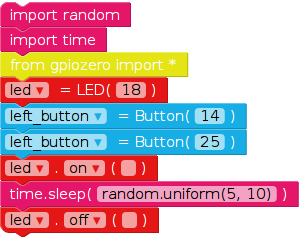
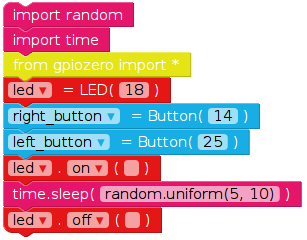
Button function added v0.3

Changed region(s): [[0.0, 0.0, 1.0, 1.0]]

diff --git a/Worksheet/QuickReactionGame.md b/Worksheet/QuickReactionGame.md
@@ -93,3 +93,23 @@ Now that the LED is working, it is time to get the buttons working, so you can d
 Your code should look like this:
 
 ![Code block 3](Images/Code03.png)  
+
+At the end of the code we are now going to add a function, that will be called everytime a button is pressed.
+
+7. go to the ![Basic Menu](Images/Basic.png) and find the ![def  ()](Images/def.png) drag it to the coding area and attach it at the bottom of the code. In the first blank space type *pressed* and in the second blank space between the () type *button*.
+
+8. Back in the ![Basic Menu](Images/Basic.png) locate the ![print](Images/print.png) and attach it inbetween the ![def](Images/def.png) block. Within the () of the print block type *str(button.pin.number) + 'won the game'*.
+
+Your code should look like this:
+
+![code04](Images/Code04.png)
+
+9. Now we need to add the code to the buttons so call the function when a button is pressed. Go to the ![gpiozero menu](Images/GPIO_Zero.png) -> ![Inputs](Images/Inputs.png) -> ![Button](Images/Button.png) and locate the ![button. = ](Images/button_equals.png) drag it to the coding area and attach it at the bottom of your code. Click on the arrow next to button from the menu pick right_button. In the first blank space type *when_pressed* in the next blank space type *pressed* this will call the function when the right button is pressed.
+
+10. Do the same as above, but picking the left_button from the menu. This will now call the function when the left button is pressed.
+
+Your completed code will should look like this:
+
+![code05](Images/Code05.png)
+
+Now grab a friend and try out your game.
